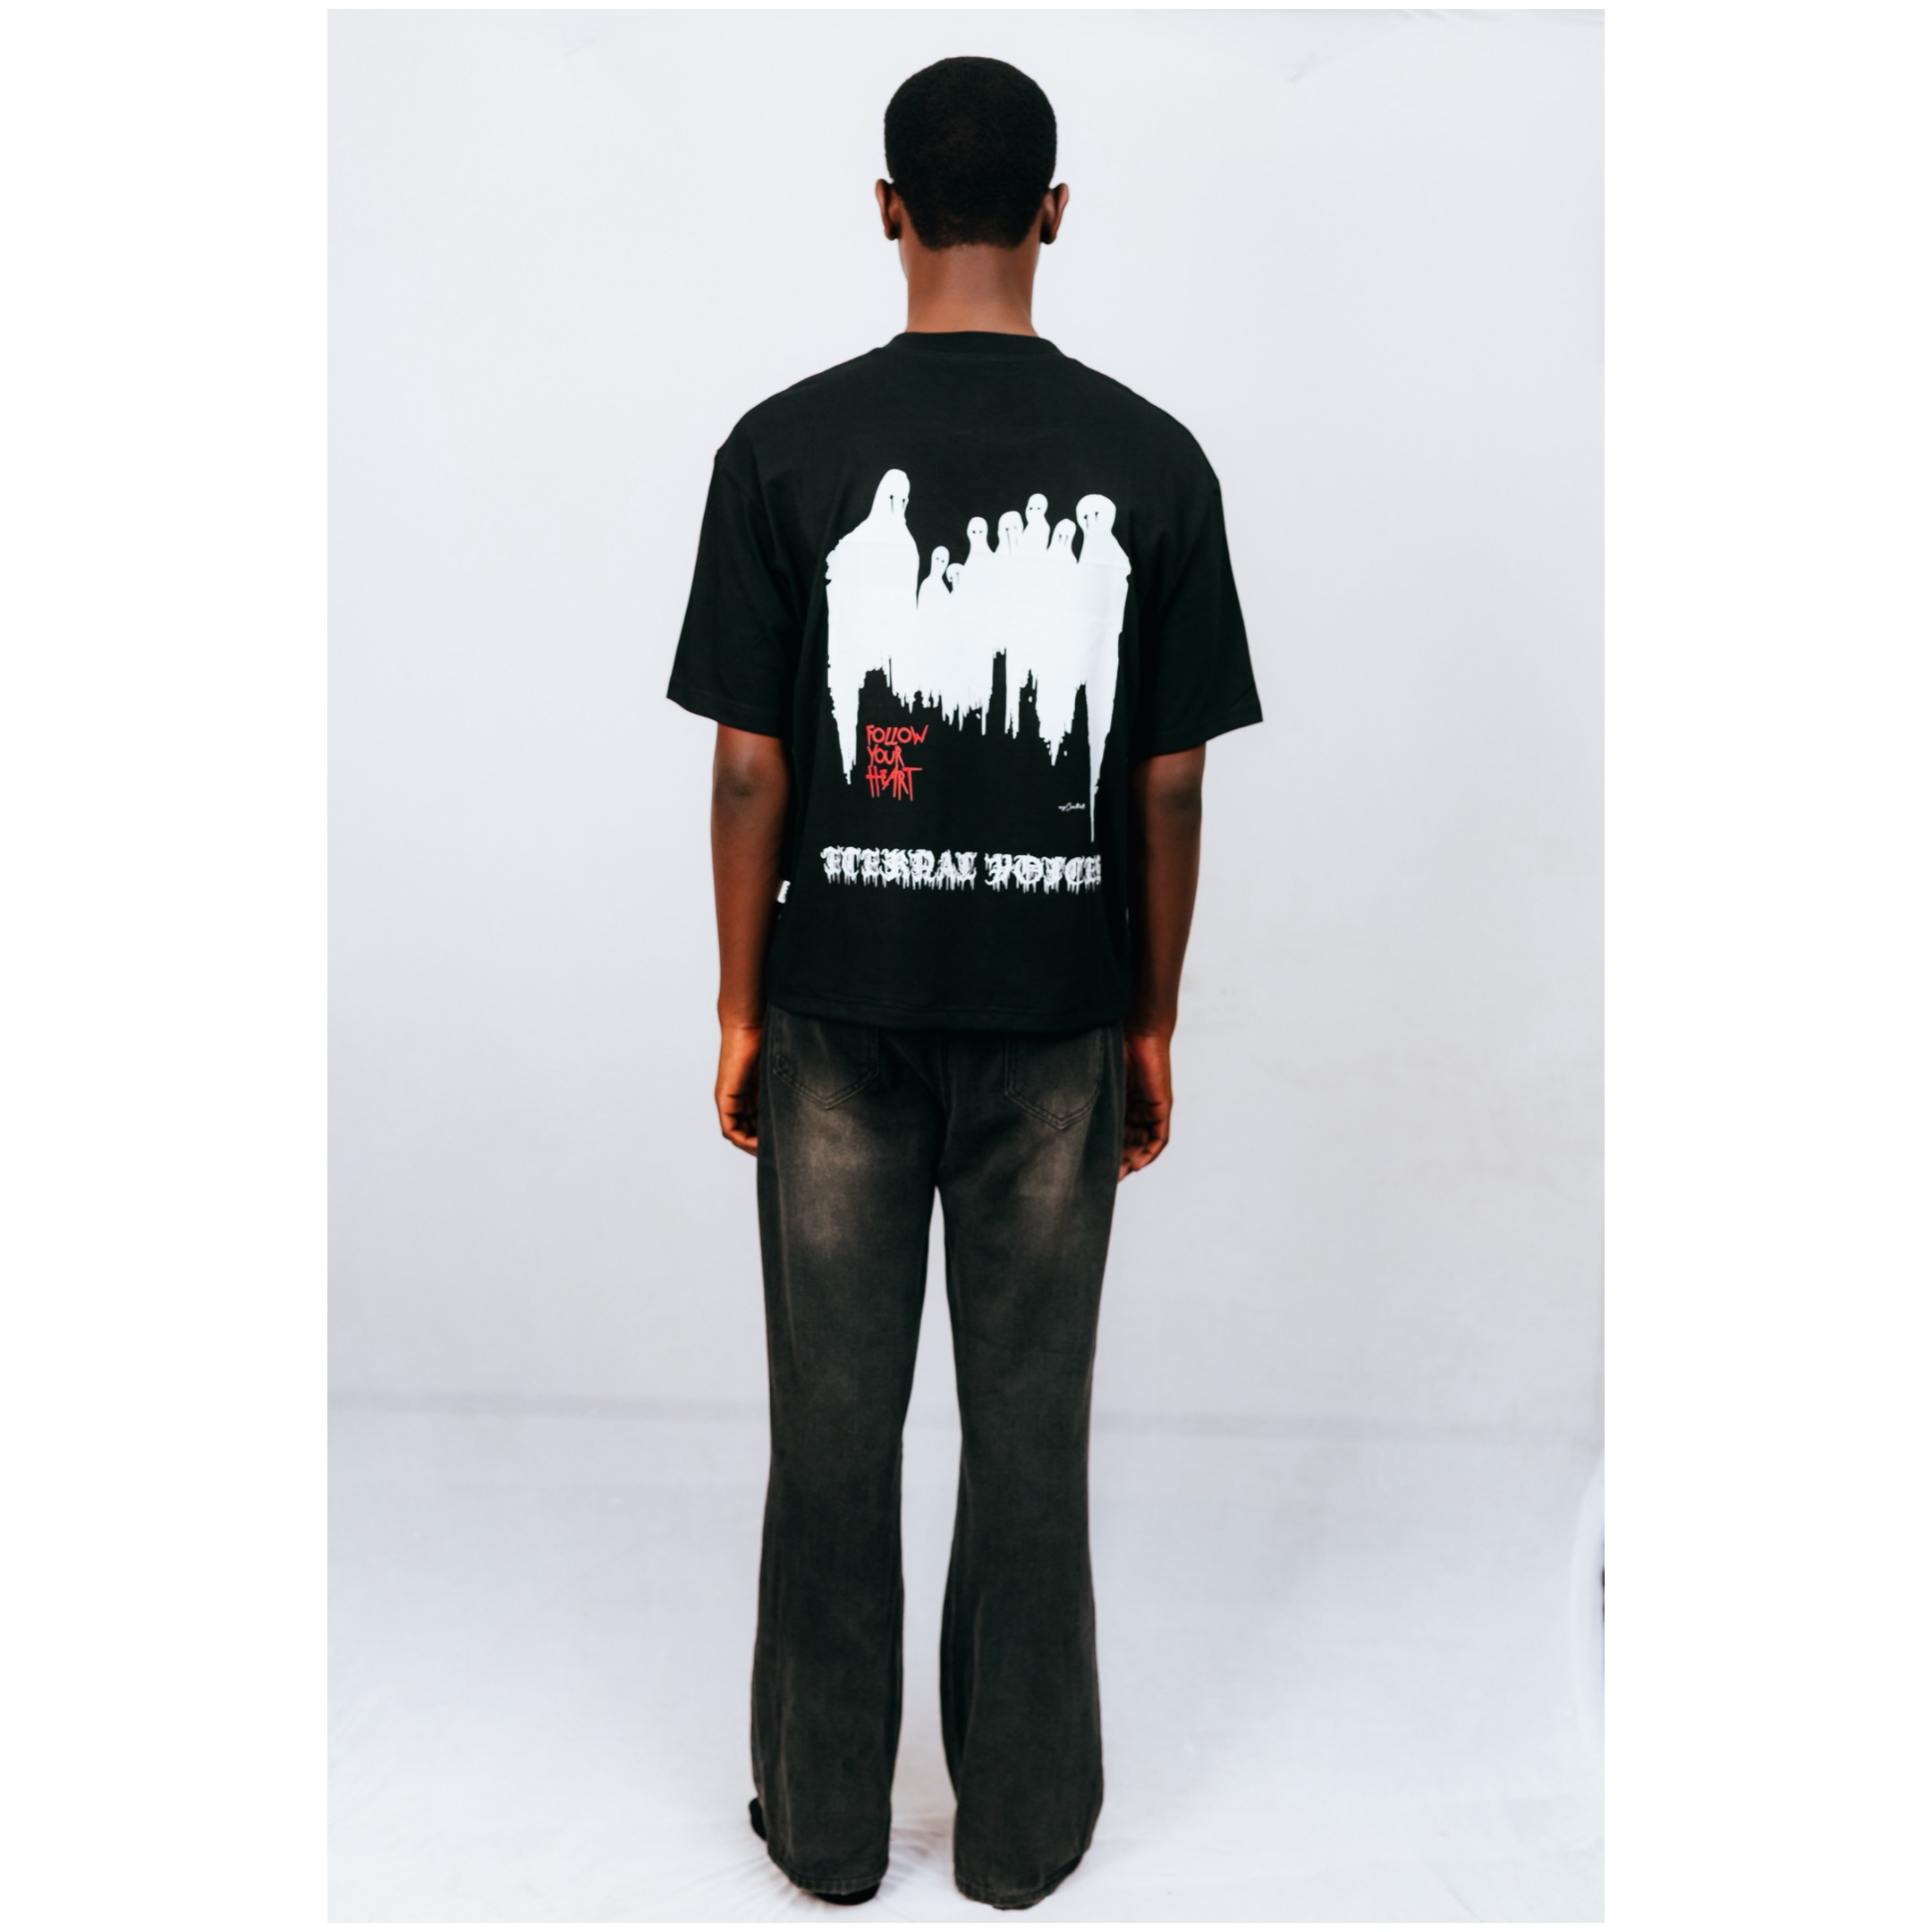
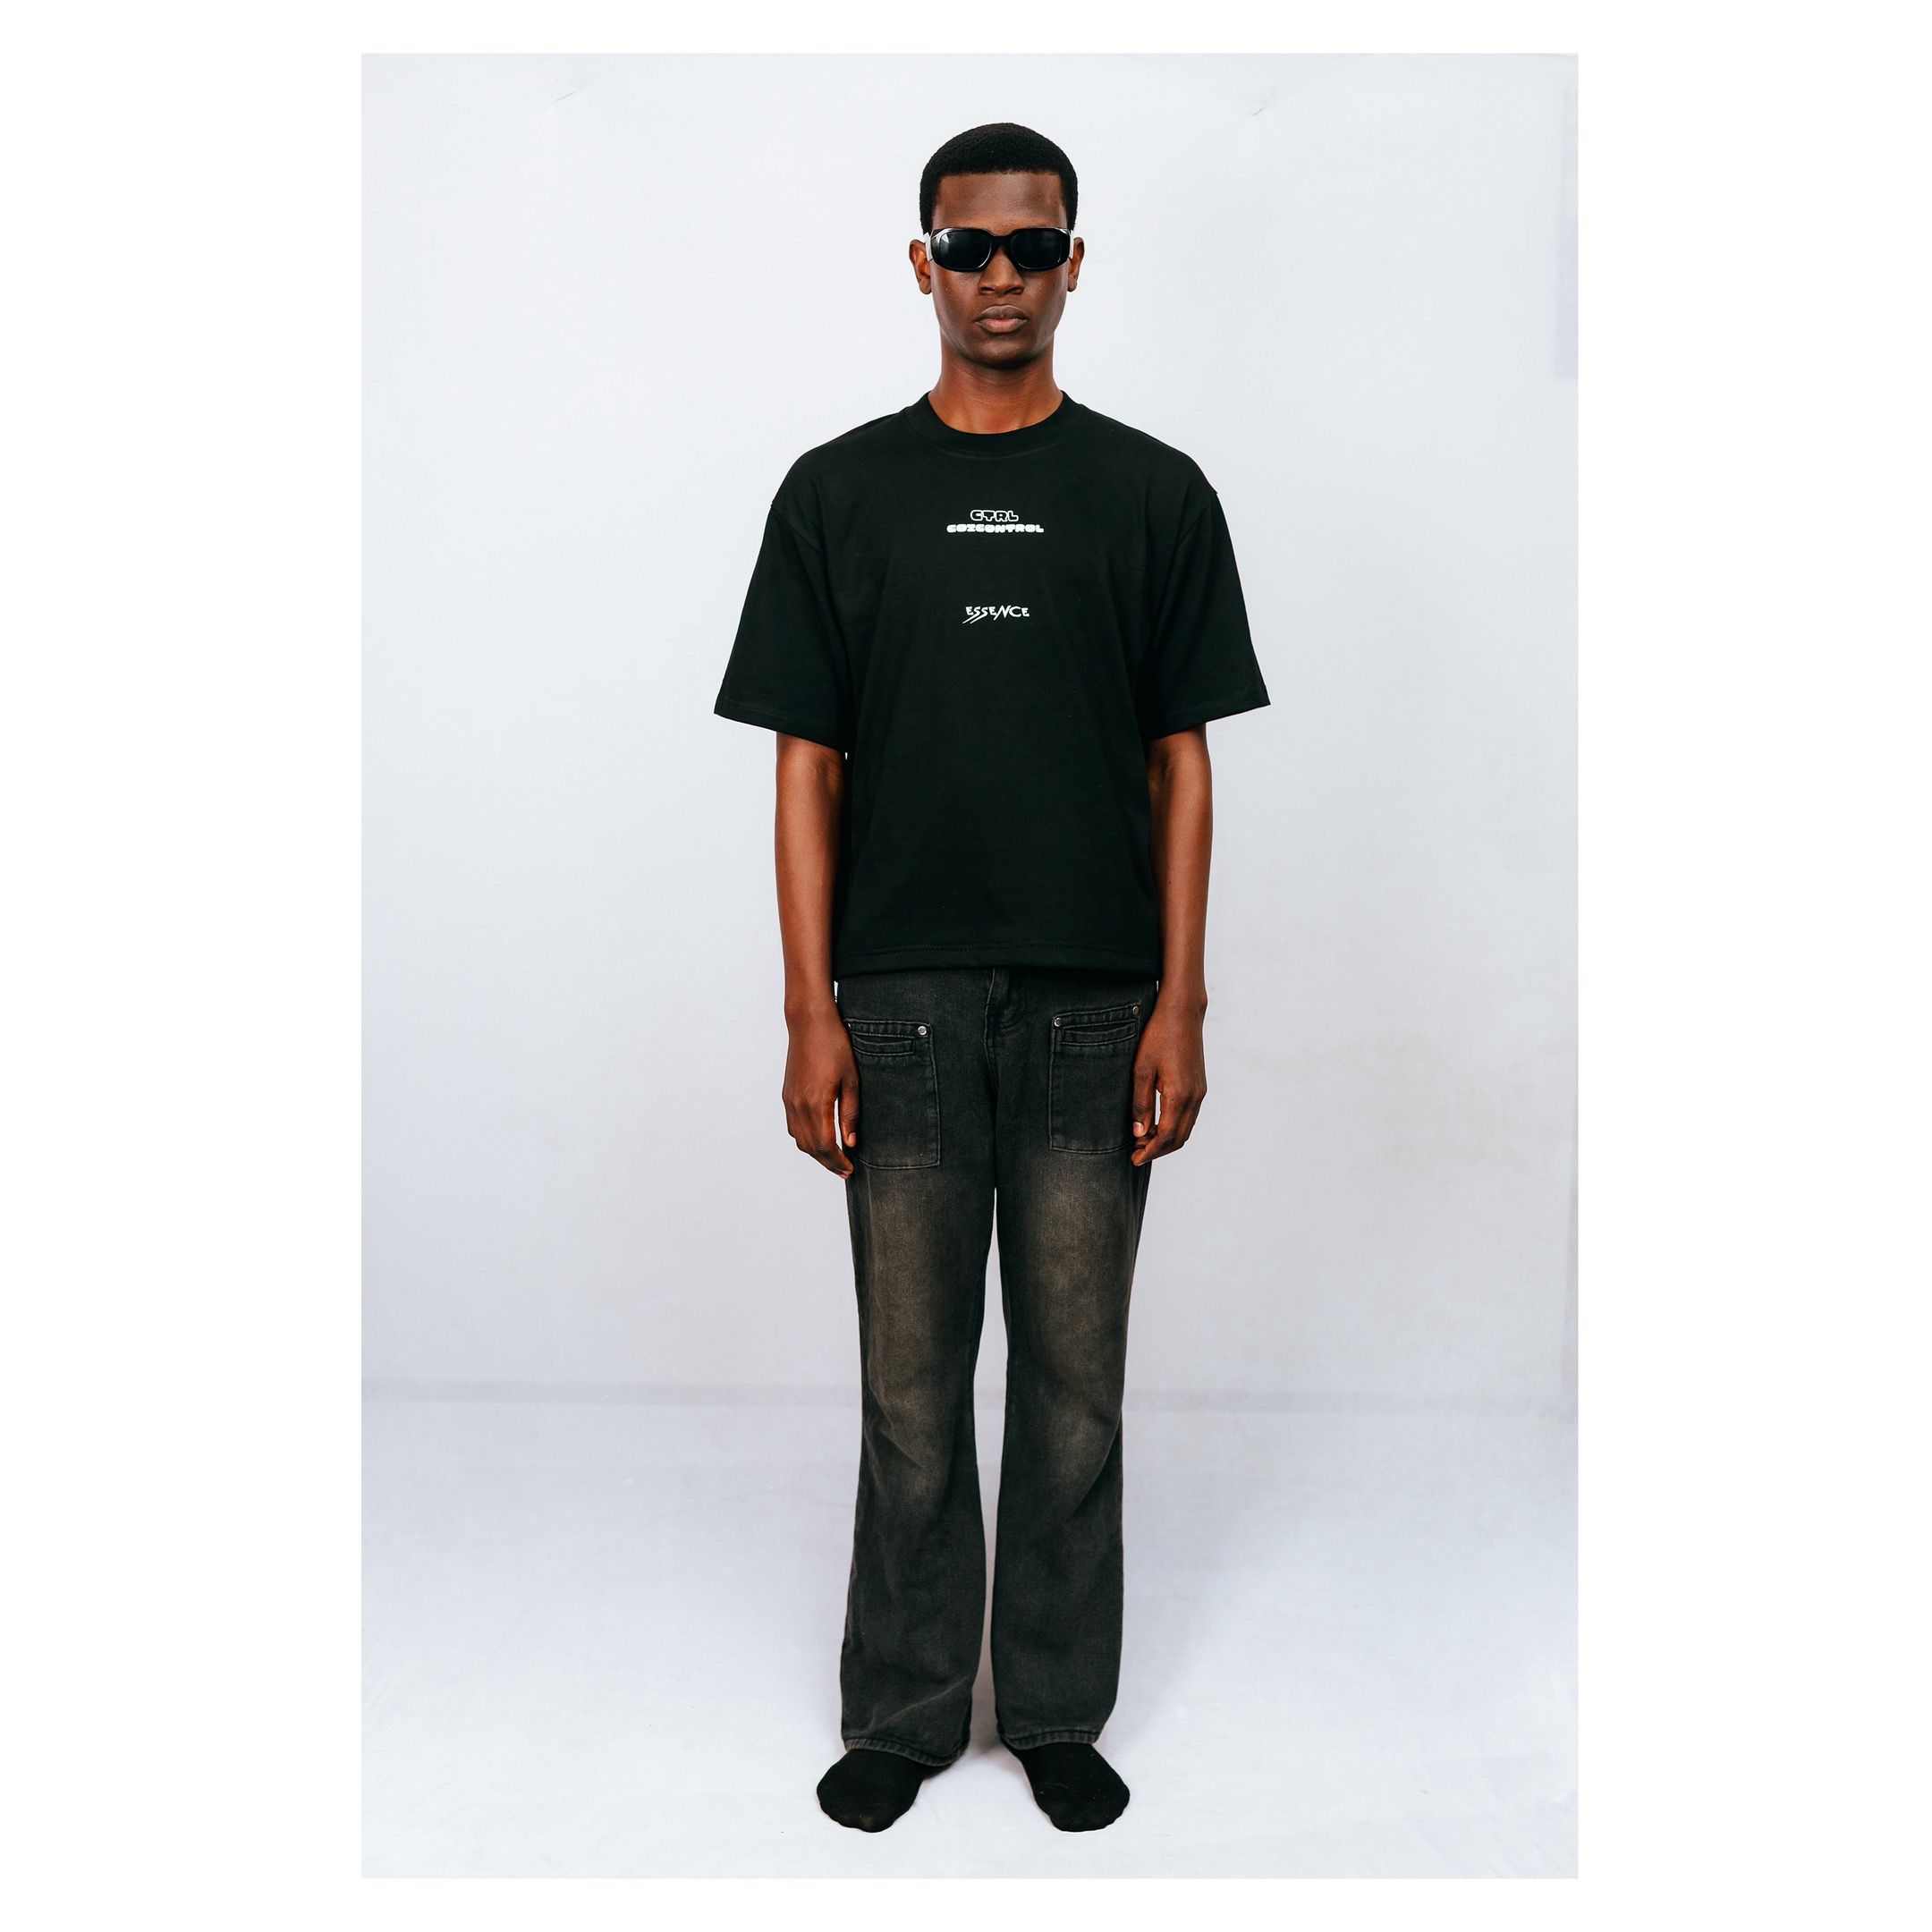
add product images 04 and 05

Changed region(s): [[0.3412, 0.031, 0.8375, 1.0], [0.6204, 0.0, 0.8375, 0.8995], [0.1551, 0.3412, 0.1861, 0.9306]]

diff --git a/index.html b/index.html
@@ -222,7 +222,7 @@ https://templatemo.com/tm-559-zay-shop
             <div class="col-12 col-md-4">
                 <div class="coz-product-card">
                     <div class="coz-product-img-wrap">
-                        <span class="coz-badge">NEW</span>
+                        <span class="coz-badge"></span>
                         <a href="shop-single.html">
                             <img src="./assets/img/feature_prod_01.jpg" alt="Child of God" class="coz-product-img">
                         </a>